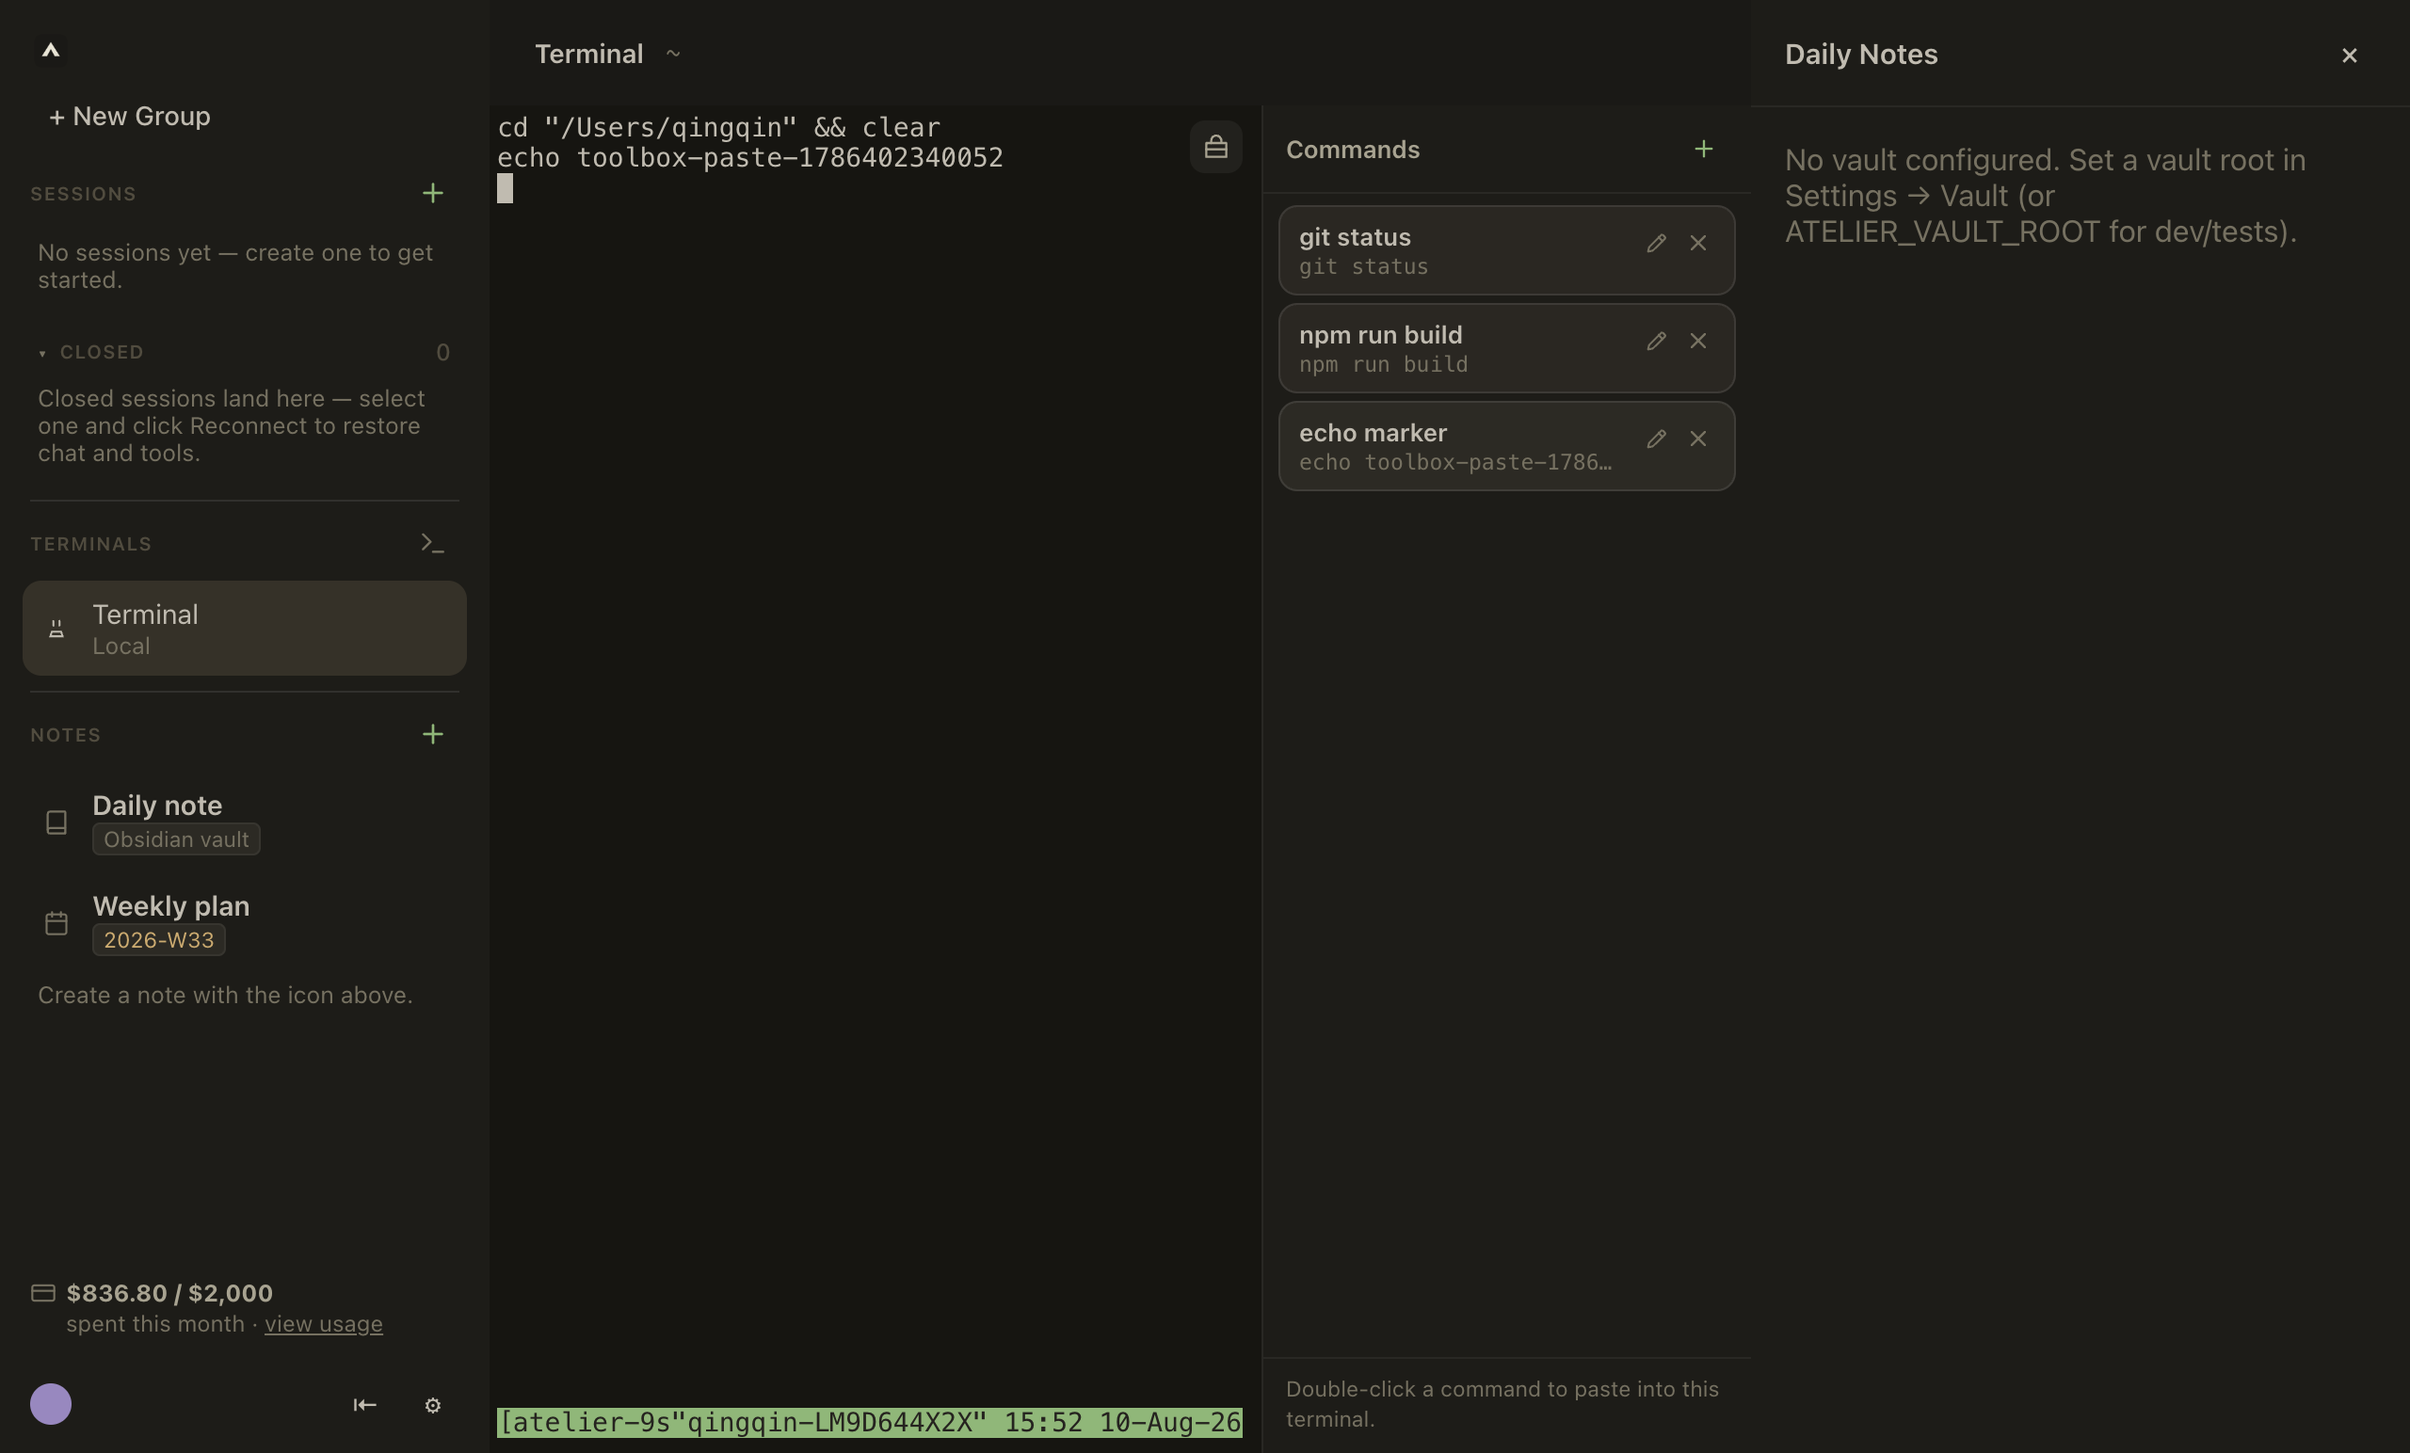
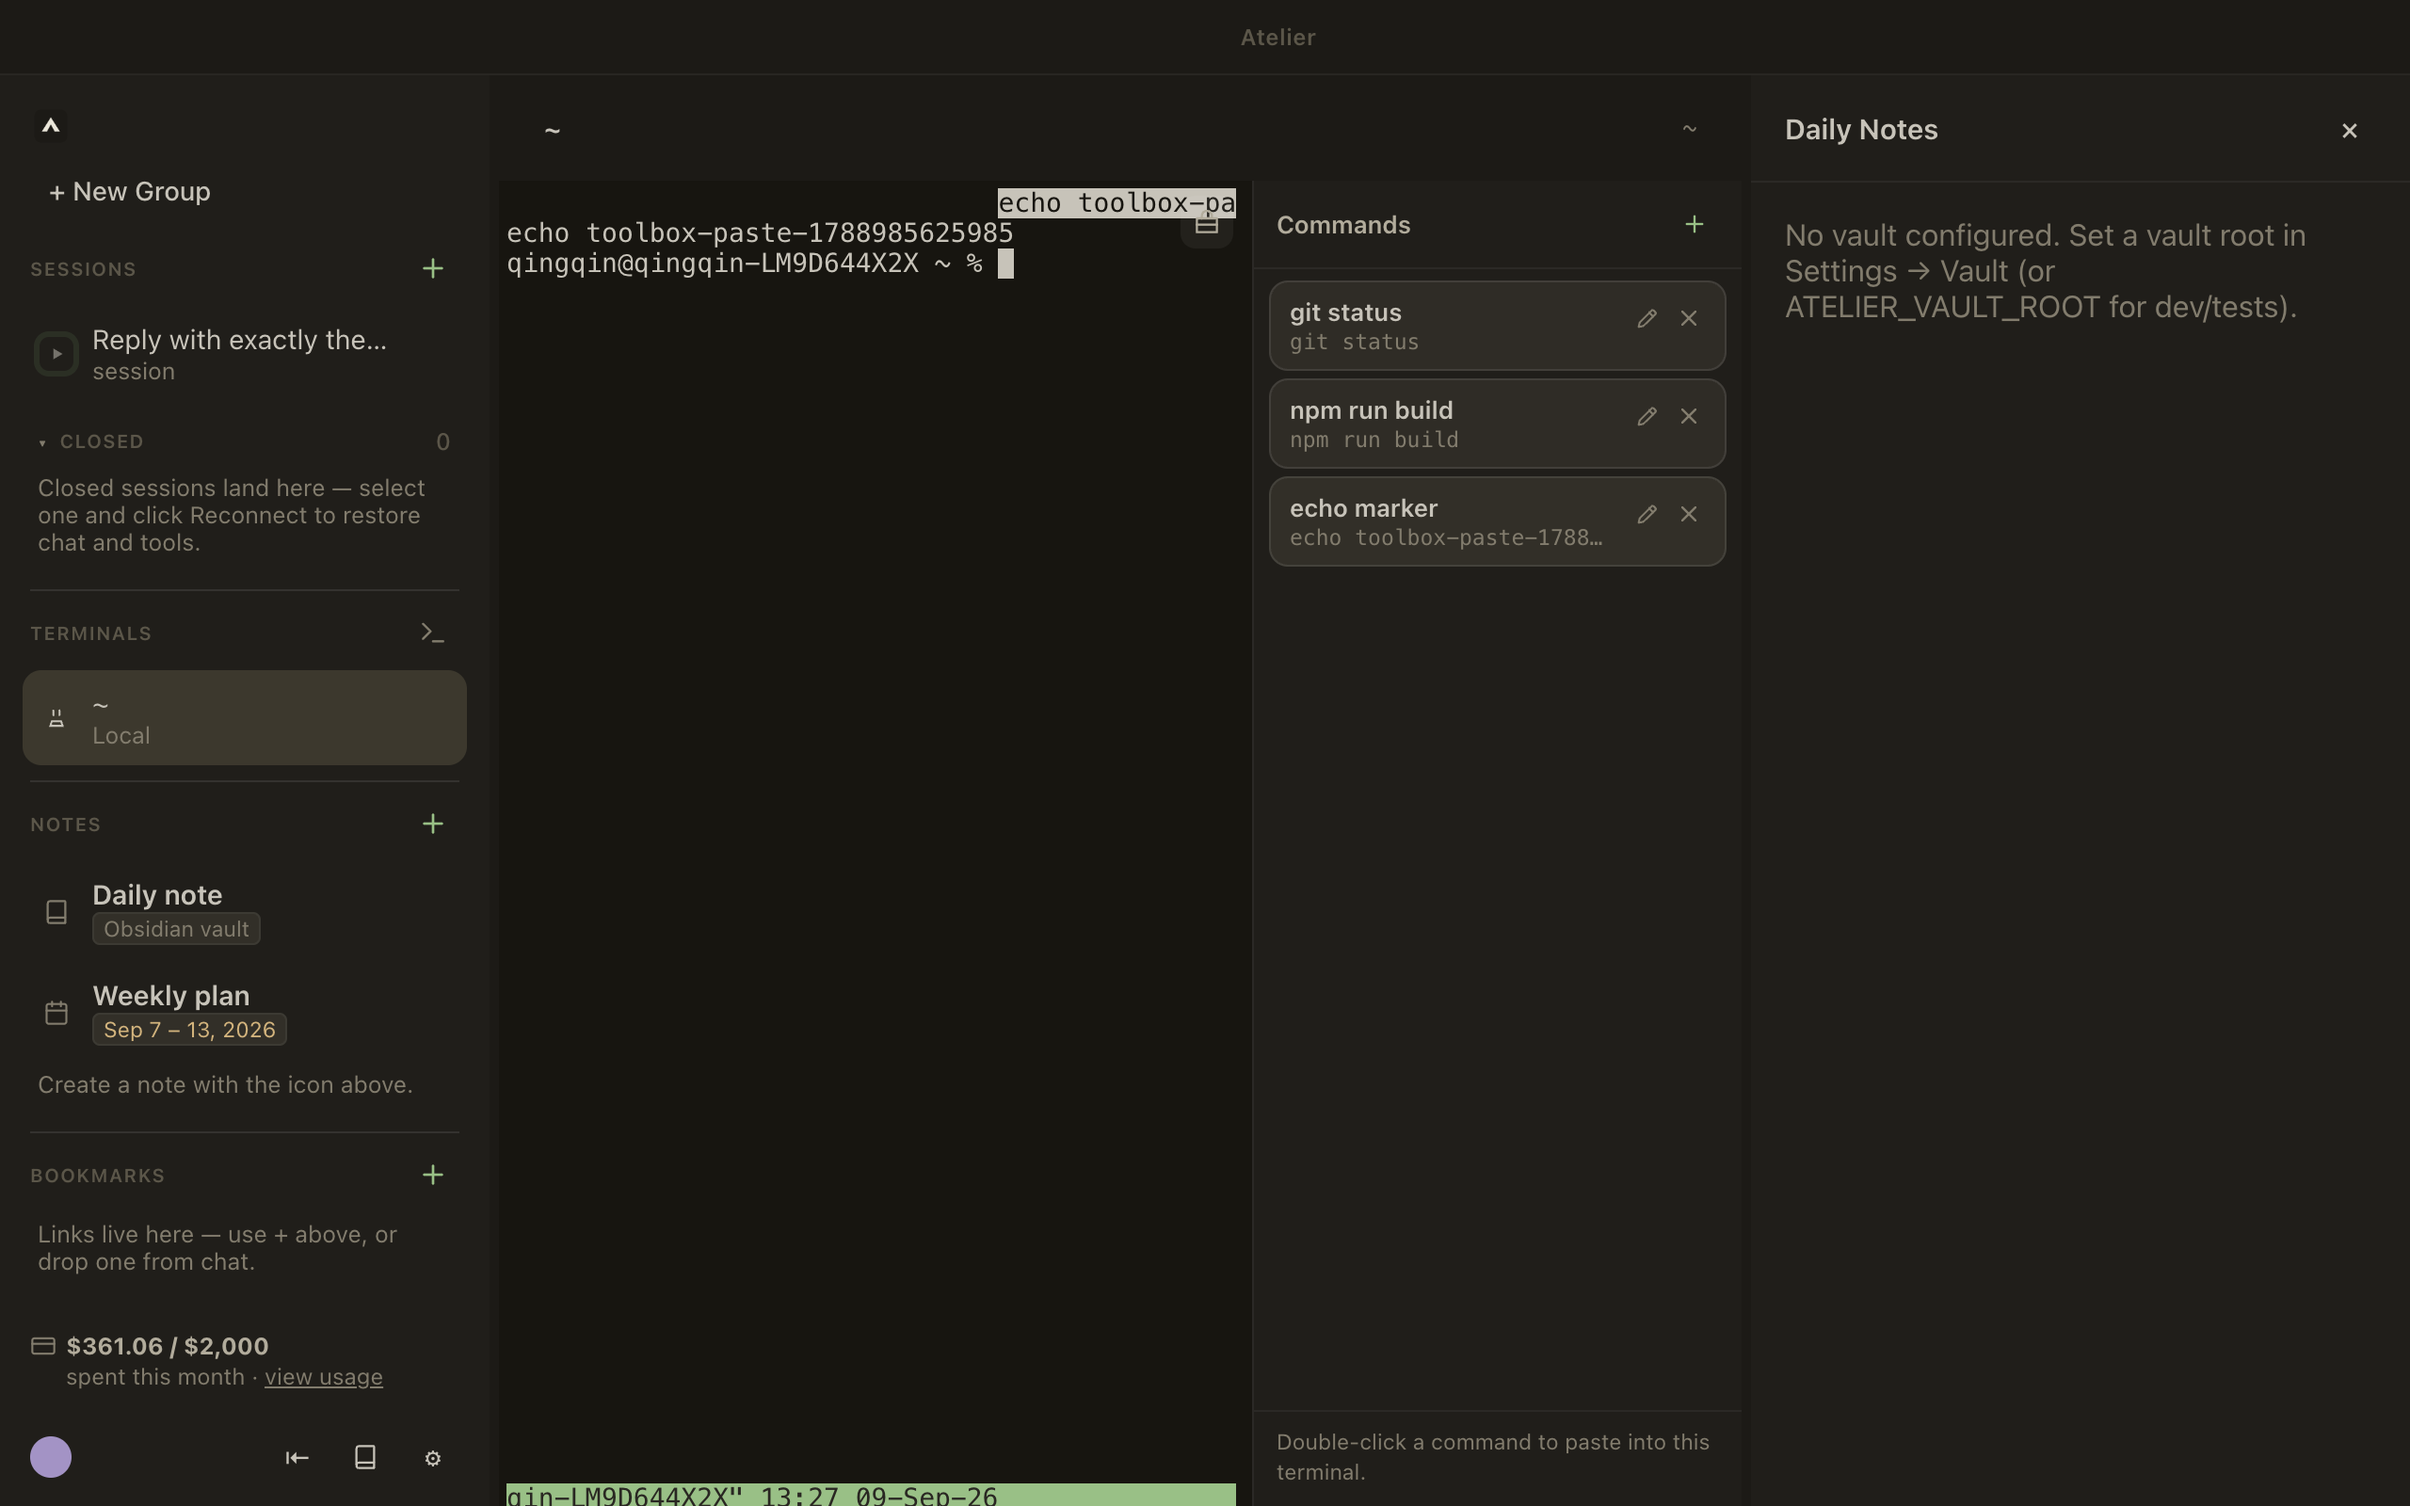
Remove the extra title bar from the session Terminal tab.
The mock's Terminal tab is just xterm plus a floating toolbox button.
The in-panel header (glyph, cwd chip, host chip) duplicated the tab
label; keep that chrome only on the companion drawer, which still
needs a title and close control.

diff --git a/e2e/secondary-panels.spec.ts b/e2e/secondary-panels.spec.ts
@@ -242,8 +242,14 @@ test.describe('07-secondary-panels', () => {
     await expect(page.getByTestId('diff-empty-not-repo')).toBeVisible({ timeout: 15_000 })
 
     await page.getByTestId('tab-terminal').click()
-    const altBasename = altProjectPath.split('/').filter(Boolean).pop() ?? altProjectPath
-    await expect(page.getByTestId('terminal-cwd-chip')).toContainText(altBasename, { timeout: 15_000 })
+    await expect(page.getByTestId('terminal-panel-header')).toHaveCount(0)
+    await expect(page.getByTestId('terminal-toolbox-toggle')).toBeVisible()
+    const term = page.getByTestId('terminal-body')
+    await term.click()
+    await page.keyboard.type('pwd')
+    await page.keyboard.press('Enter')
+    await expect.poll(async () => term.textContent(), { timeout: 15_000 }).toContain(altProjectPath)
+    await page.screenshot({ path: join(artifactsDir, '07-terminal-tab-no-header.png') })
 
     await page.screenshot({ path: join(artifactsDir, '07-session-project-path-reload.png') })
     log(`project path changed to ${altProjectPath}`)
@@ -1471,18 +1477,21 @@ test.describe('07-secondary-panels', () => {
   test('terminal toolbox: toggle panel and double-click pastes command into shell', async () => {
     await page.getByTestId('open-local-terminal-button').click()
     await expect(page.getByTestId('terminal-only-session')).toBeVisible({ timeout: 10_000 })
-    const term = page.getByTestId('terminal-body')
+    // The shell lives in `.terminal-cache-entry.active`, not inside the
+    // placeholder `terminal-only-session` node.
+    const surface = page.locator('.terminal-cache-entry.active')
+    const term = surface.getByTestId('terminal-body')
     await term.click()
 
-    await page.getByTestId('terminal-toolbox-toggle').click()
-    await expect(page.getByTestId('terminal-toolbox-panel')).toBeVisible()
+    await surface.getByTestId('terminal-toolbox-toggle').click()
+    await expect(surface.getByTestId('terminal-toolbox-panel')).toBeVisible()
 
     const marker = `toolbox-paste-${Date.now()}`
-    await page.getByTestId('terminal-toolbox-add').click()
-    await page.getByTestId('terminal-toolbox-add-label').fill('echo marker')
-    await page.getByTestId('terminal-toolbox-add-command').fill(`echo ${marker}`)
-    await page.getByTestId('terminal-toolbox-add-save').click()
-    await page.locator('.term-toolbox-row').filter({ hasText: 'echo marker' }).dblclick()
+    await surface.getByTestId('terminal-toolbox-add').click()
+    await surface.getByTestId('terminal-toolbox-add-label').fill('echo marker')
+    await surface.getByTestId('terminal-toolbox-add-command').fill(`echo ${marker}`)
+    await surface.getByTestId('terminal-toolbox-add-save').click()
+    await surface.locator('.term-toolbox-row').filter({ hasText: 'echo marker' }).dblclick()
     await page.keyboard.press('Enter')
     await expect.poll(async () => term.textContent(), { timeout: 15_000 }).toContain(marker)
     await page.screenshot({ path: join(artifactsDir, '07-terminal-toolbox.png') })

diff --git a/src/renderer/src/components/panels/TerminalWithToolbox.tsx b/src/renderer/src/components/panels/TerminalWithToolbox.tsx
@@ -2,7 +2,7 @@ import { useCallback, useRef, useState } from 'react'
 import { DEFAULT_TERMINAL_TOOLBOX_COMMANDS } from '../../../../shared/terminal-toolbox-types'
 import { useConfig } from '../../hooks/useConfig'
 import TerminalPanel, { type TerminalPanelHandle } from './TerminalPanel'
-import TerminalPanelHeader from './TerminalPanelHeader'
+import TerminalPanelHeader, { IconToolbox } from './TerminalPanelHeader'
 import TerminalToolboxPanel from './TerminalToolboxPanel'
 
 export default function TerminalWithToolbox({
@@ -37,18 +37,34 @@ export default function TerminalWithToolbox({
     [updateConfig]
   )
 
+  const toggleToolbox = (): void => setToolboxOpen((o) => !o)
+
   return (
-    <div className="term-shell">
+    <div className="term-shell" data-cwd={cwd}>
       <div className="term-shell-main">
-        <TerminalPanelHeader
-          cwd={cwd}
-          hostname={hostname}
-          shellRemoteHost={shellRemoteHost}
-          variant={variant}
-          toolboxOpen={toolboxOpen}
-          onToggleToolbox={() => setToolboxOpen((o) => !o)}
-          onClose={onClose}
-        />
+        {variant === 'companion' ? (
+          <TerminalPanelHeader
+            cwd={cwd}
+            hostname={hostname}
+            shellRemoteHost={shellRemoteHost}
+            variant={variant}
+            toolboxOpen={toolboxOpen}
+            onToggleToolbox={toggleToolbox}
+            onClose={onClose}
+          />
+        ) : (
+          <button
+            type="button"
+            className="term-toolbox-toggle"
+            data-testid="terminal-toolbox-toggle"
+            title="Command toolbox"
+            aria-label="Command toolbox"
+            aria-expanded={toolboxOpen}
+            onClick={toggleToolbox}
+          >
+            <IconToolbox />
+          </button>
+        )}
         <TerminalPanel ref={termRef} ptyId={ptyId} cwd={cwd} hostname={hostname} active={active} />
       </div>
       {toolboxOpen ? (

diff --git a/src/renderer/src/styles/global.css b/src/renderer/src/styles/global.css
@@ -3740,6 +3740,14 @@ body.dragging-workspace-tab .workspace-drop-zone { opacity: 1; }
 .term-shell-main > .term-body {
   box-sizing: border-box;
 }
+/* Session Terminal tab / terminal-only: overlay like the mock. Companion
+   keeps the toggle inside `.term-panel-header`, so it stays in-flow. */
+.term-shell-main > .term-toolbox-toggle {
+  position: absolute;
+  top: 8px;
+  right: 10px;
+  z-index: 2;
+}
 .term-panel-header .term-toolbox-toggle {
   position: static;
   flex-shrink: 0;

diff --git a/src/renderer/src/components/panels/TerminalPanelHeader.tsx b/src/renderer/src/components/panels/TerminalPanelHeader.tsx
@@ -27,7 +27,7 @@ function IconGlobe(): JSX.Element {
   )
 }
 
-function IconToolbox(): JSX.Element {
+export function IconToolbox(): JSX.Element {
   return (
     <svg className="icon" width="16" height="16" viewBox="0 0 24 24" fill="none" stroke="currentColor" strokeWidth="1.75" strokeLinecap="round" strokeLinejoin="round" aria-hidden>
       <path d="M4 9h16v11H4z" />

diff --git a/e2e/TEST_CATEGORIES.md b/e2e/TEST_CATEGORIES.md
@@ -107,7 +107,7 @@ iterating.
 |---|---|
 | **Spec files** | `secondary-panels.spec.ts`, `terminal-pty.spec.ts`, `bug-diff-preload-limit.spec.ts`, `session-tab-memory.spec.ts` |
 | **Source paths** | `src/renderer/src/components/panels/*` (`DiffPanel.tsx`, `FilesPanel.tsx`, `PortsPanel.tsx`, `TerminalPanel.tsx`, `TabBar.tsx`, `CompanionTerminalDrawer.tsx`), `src/main/panels/*` (`git.ts`, `git-repository.ts`, `files.ts`, `editor-buffers.ts`, `ports.ts`, `pty.ts`, `ipc.ts`), `src/main/sessions/workspace-service.ts` |
-| **Catches** | Tab strip switching (chat/diff/files/ports), git diff sub-tabs (changes/commits/worktrees) including worktree add/merge/remove and diff inline comments, background preload hydrating at most 10 changed-file patches while keeping the full list and lazy-loading later files on click, file tree browsing + content/image/HTML preview, ⌘-hold hint badges on Files-tree directories and files (activate opens/toggles), unsaved Files-editor edits surviving navigation via `<userData>/editor-buffers` scratch files (restored on re-open, written to the real file only on ⌘S, purged on app restart), port forwarding rows (add/remove/status), real PTY-backed terminal panel and the companion terminal drawer. Per-session tab memory: each session reopens on the tab it was left on after a session switch and after a real relaunch, with the value persisted in the `sessions.active_tab` column rather than only in renderer state. SSH ControlMaster: verifies that opening a devpod terminal creates a `/tmp/atelier-ssh-*` multiplexing socket (proving `SSH_MUX_OPTS` are applied so subsequent SSH calls reuse the socket instead of doing a full crypto handshake). |
+| **Catches** | Tab strip switching (chat/diff/files/ports), git diff sub-tabs (changes/commits/worktrees) including worktree add/merge/remove and diff inline comments, background preload hydrating at most 10 changed-file patches while keeping the full list and lazy-loading later files on click, file tree browsing + content/image/HTML preview, ⌘-hold hint badges on Files-tree directories and files (activate opens/toggles), unsaved Files-editor edits surviving navigation via `<userData>/editor-buffers` scratch files (restored on re-open, written to the real file only on ⌘S, purged on app restart), port forwarding rows (add/remove/status), real PTY-backed terminal panel and the companion terminal drawer. The session Terminal tab (and terminal-only main view) has no in-panel title/cwd/host bar — xterm fills the pane with the toolbox toggle overlaid, matching the mock; the companion drawer still has its header + close. Per-session tab memory: each session reopens on the tab it was left on after a session switch and after a real relaunch, with the value persisted in the `sessions.active_tab` column rather than only in renderer state. SSH ControlMaster: verifies that opening a devpod terminal creates a `/tmp/atelier-ssh-*` multiplexing socket (proving `SSH_MUX_OPTS` are applied so subsequent SSH calls reuse the socket instead of doing a full crypto handshake). |
 
 ### 11. Daily Notes & Obsidian Sync
 

diff --git a/Features/remove-terminal-tab-header/spec.md b/Features/remove-terminal-tab-header/spec.md
@@ -1,0 +1,38 @@
+# Remove the Terminal tab header bar
+
+The session **Terminal** tab currently draws an extra chrome strip
+(`.term-panel-header`: glyph, “Terminal” label, cwd chip, host chip) above
+xterm. That strip is not in the mock and duplicates the session topbar’s
+tab label.
+
+## User flow
+
+1. Open a Claude Code session and switch to the **Terminal** tab (click or
+   existing ⌘ hint).
+2. The pane is the shell: xterm fills the tab, with the command-toolbox
+   button overlaid at the top-right of `.term-shell-main` — same placement
+   as `Features/UI-Design/mocks/index.html` (`.term-shell-main > .term-toolbox-toggle`).
+3. There is no “Terminal” title bar, cwd chip, or host chip in this tab.
+4. The companion drawer (Chat + Terminal overlay) **keeps** its header,
+   because the mock’s `.drawer-head` still needs a title and close control.
+
+Terminal-only sessions use the same shell chrome as the Terminal tab, so
+they lose the extra bar too.
+
+## UI
+
+Reuse the mock Terminal tab: `Features/UI-Design/mocks/index.html` lines
+around the `data-tab="terminal"` block — `.term-shell` / `.term-shell-main` /
+`.term-toolbox-toggle` overlay / `.term-body`. No new tokens. Companion
+drawer still uses `.term-panel-header` (live analogue of `.drawer-head`).
+
+## Done criteria
+
+- Session Terminal tab and terminal-only main view: `terminal-panel-header`
+  is not in the DOM; `terminal-toolbox-toggle` remains.
+- Companion drawer still shows the header and close button.
+- Project-path change still respawns the pty at the new cwd (asserted via
+  a real `pwd` in the shell, not a header chip).
+- Screenshot `e2e-artifacts/07-terminal-tab-no-header.png` viewed against
+  the mock.
+- `npm run build` clean; targeted category 10 run for the overlapping specs.
